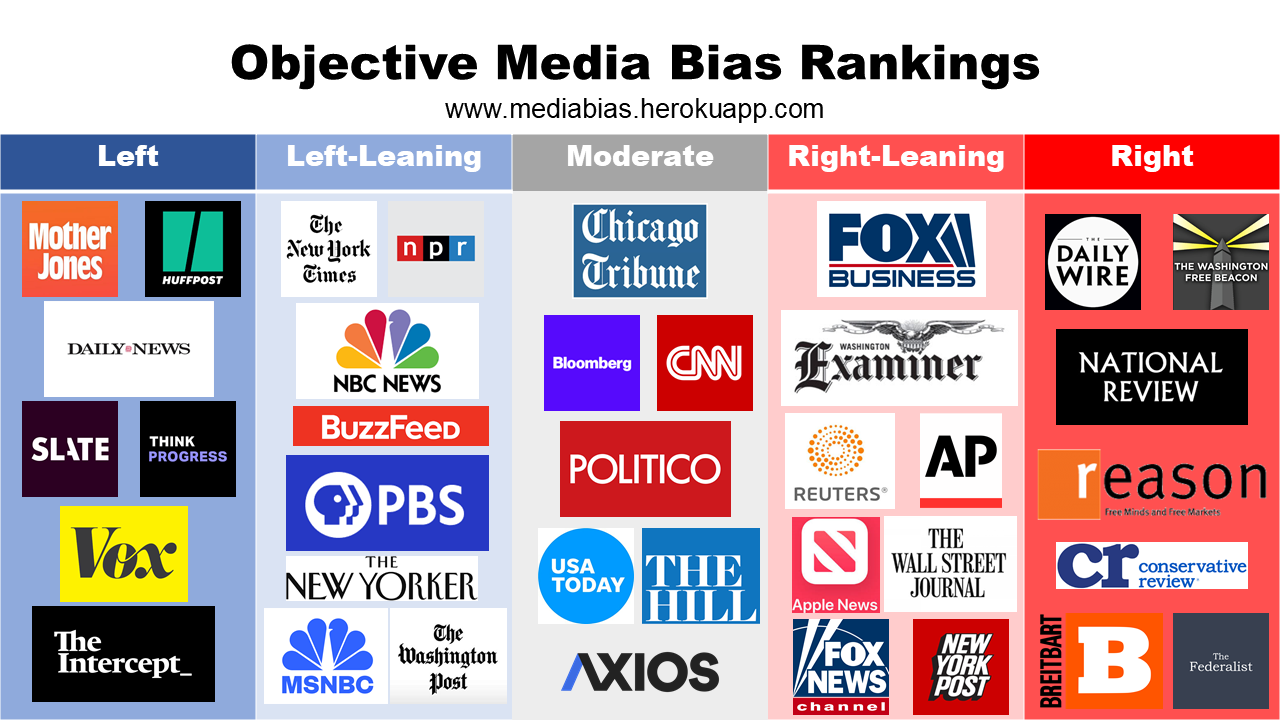
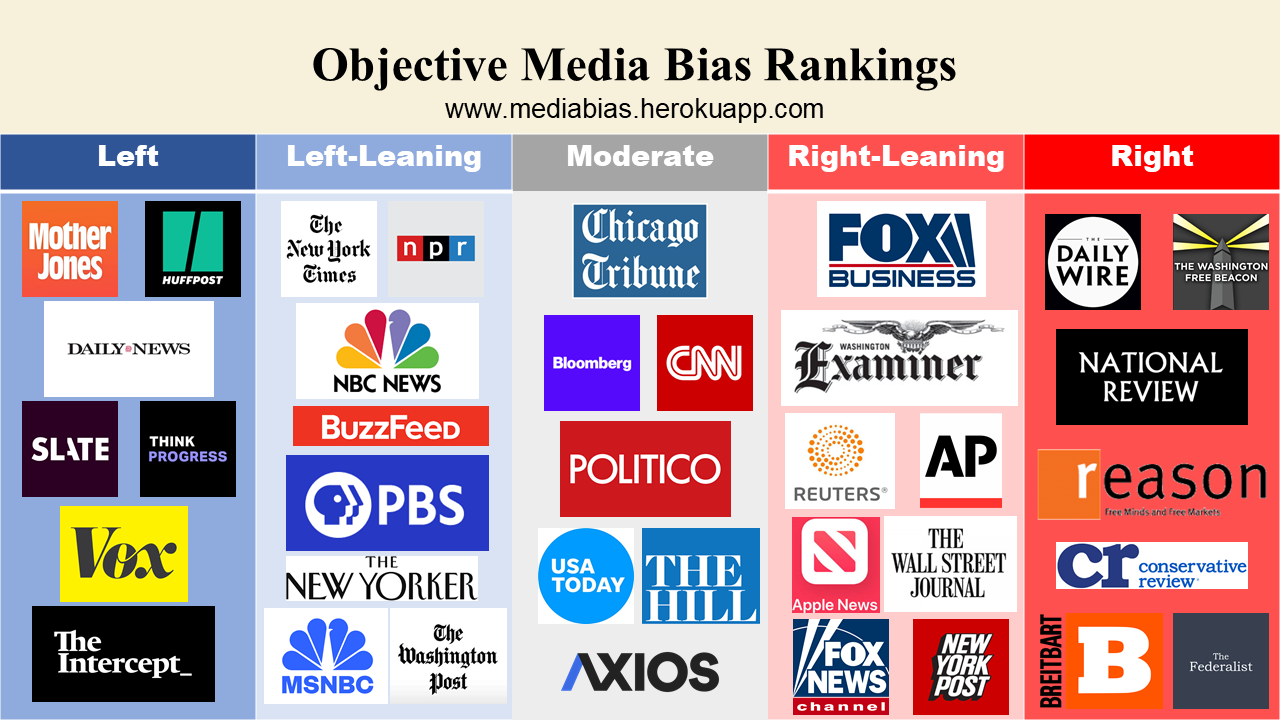
feature image update

Changed region(s): [[0.0, 0.0, 1.0, 0.1833]]

diff --git a/app/static/css/mediabias.css b/app/static/css/mediabias.css
@@ -10,10 +10,11 @@ body{
 }
 
 h1, h2, h3, h4, h5, h6{
-    font-family: Times;
+    font-family: Times, serif;
 }
 
 .navbar{
     background-color: #F1E2C4;
     margin-bottom: 2vh;
+    font-family: serif;
 }
